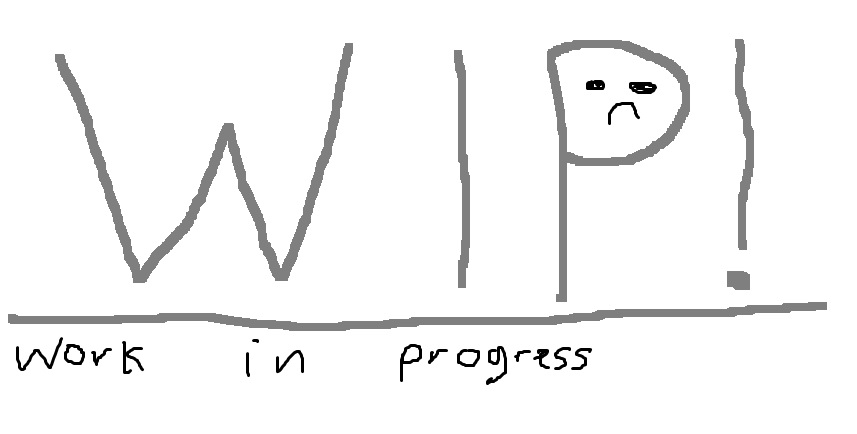
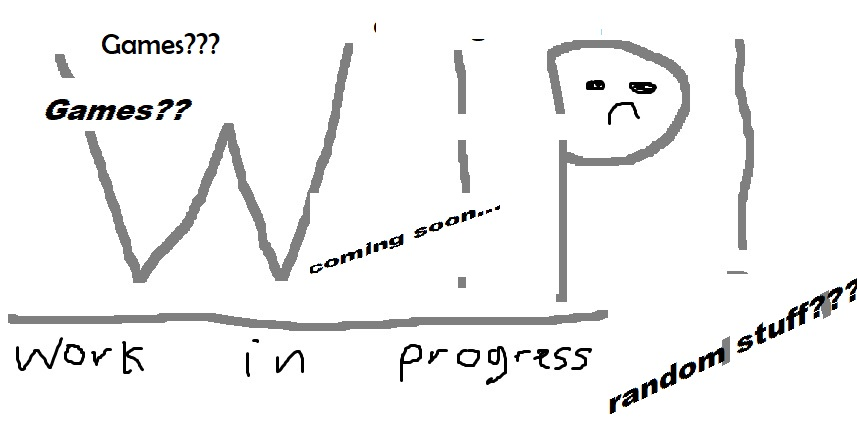
added new WIP pic

diff --git a/Projects.html b/Projects.html
@@ -23,7 +23,7 @@
 
          <div class="WIP">
              <a href=""> 
-            <img src="Images/WIP.jpg" alt="WIP logo(im so creative)" height="150">
+            <img src="Images/WIPN.jpg" alt="WIP logo(im so creative)" height="150">
             </a>
             <div class="projects">This website</div>
         </div>
@@ -32,12 +32,12 @@
              <a href=""> 
             <img src="Images/WIP.jpg" alt="WIP logo(im so creative)" height="150">
             </a>
-            <div class="projects">Project 2</div>
+            <div class="projects">stuff made by me</div>
         </div>
 
          <div class="WIP">
              <a href="">
-            <img src="Images/WIP.jpg" alt="WIP logo(im so creative)" height="150">
+            <img src="Images/WIPN.jpg" alt="WIP logo(im so creative)" height="150">
             </a>
             <div class="projects">P.B: 3x3</div>
         </div>
